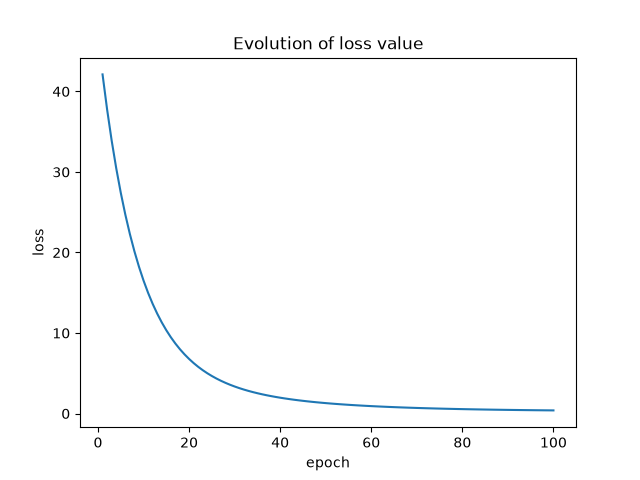
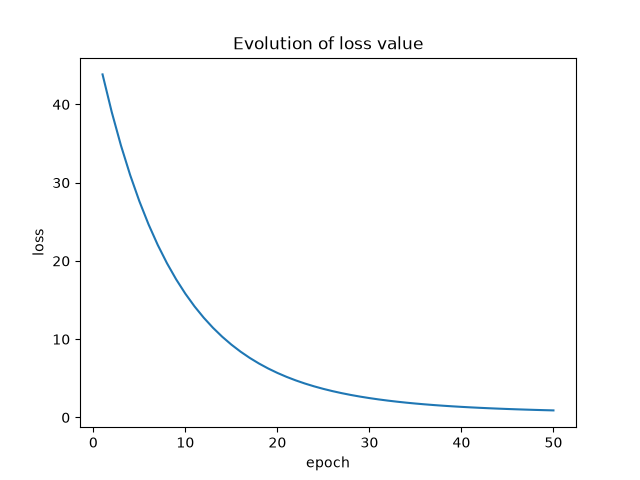
Modification of plot functions and addition of a few optimizations

diff --git a/src/utils/visualization.py b/src/utils/visualization.py
@@ -1,24 +1,55 @@
-import pylab as plt
+from dataclasses import dataclass
+import matplotlib.pyplot as plt
+import torch
+from pathlib import Path
+
+
+FIGURES_DIR = Path("figures")
+
+# helper function that ensures that the folder figures/ exists
+def _figure_path(dirname: str, filename: str) -> Path:
+    path = FIGURES_DIR / dirname / filename
+    path.parent.mkdir(parents=True, exist_ok=True)
+    return path
 
 
 
-def plot_data(X, fX, Y, dirname):
-    plt.scatter(X.numpy(), Y.numpy(), alpha = 0.7)
-    plt.title("Data points")
-    plt.xlabel("x")
-    plt.ylabel("y")
-    plt.savefig(f"figures/{dirname}/data.png")
-    plt.close()
+# creating a dataclass is a convenient solution here
+
+@dataclass
+class LinRegPlot:
+
+    X: torch.Tensor
+    Y: torch.Tensor
+    fX: torch.Tensor
+    dirname: str
+    w: float | None = None     # optional parameters
+    b: float | None = None
 
 
-def plot_line(X, Y, w, b, dirname):
-    plt.scatter(X.numpy(), Y.numpy(), alpha = 0.7)
-    plt.plot(X, w*X + b)
-    plt.title("Data points")
-    plt.xlabel("x")
-    plt.ylabel("y")
-    plt.savefig(f"figures/{dirname}/line.png")
-    plt.close()
+def plot_lin_reg(plot: LinRegPlot, filename: str) -> None:
+    x = plot.X.numpy().flatten()        # flatten means transforming a tensor into a 1-dimensional vector
+    y = plot.Y.numpy().flatten()
+    fx = plot.fX.numpy().flatten()
+
+    fig, ax = plt.subplots(figsize=(8, 5))           
+
+    ax.scatter(x, y, alpha=0.65, s=24, label="Random points", color="blue", zorder=3)     # or tab:blue    # zorder means in the foreground or background
+    ax.plot(x, fx, "--", color="green", linewidth=2, label="y = 3x + 2", zorder=2)
+
+    if plot.w is not None and plot.b is not None:
+        ax.plot(x, plot.w * x + plot.b, "-", color="tab:red", linewidth=2, label=f"Fitted params w = {plot.w:.2f}, b = {plot.b:.2f}", zorder=2)
+        ax.set_title("Linear regression")
+    else:
+        ax.set_title("Training data")
+
+    ax.set_xlabel("x")
+    ax.set_ylabel("y")
+    ax.legend(loc="upper left")
+    ax.grid(True, alpha=0.3)
+
+    fig.savefig(_figure_path(plot.dirname, filename), dpi=120, bbox_inches="tight")
+    plt.close(fig)
 
 
 def plot_loss(losses, dirname):

diff --git a/main.py b/main.py
@@ -4,38 +4,42 @@ from torch import nn
 from src.data import lin_reg_data
 from src.models.linear_regression import LinearRegression
 from src.utils.config import EPOCHS, LR
-from src.utils.visualization import *
+from src.utils.visualization import LinRegPlot, plot_lin_reg, plot_loss
 
 
 def linear_regression():
     dirname = "01_linear_regression"
 
     X, fX, Y = lin_reg_data()
-    plot_data(X, fX, Y, dirname)
+    plot_lin_reg(LinRegPlot(X, Y, fX, dirname), "data.png")
 
-    lr = LinearRegression(X.shape[1], Y.shape[1])
-    loss_fn = nn.MSELoss()
-    optimizer = torch.optim.SGD(lr.parameters(), lr=LR)
+    model = LinearRegression(X.shape[1], Y.shape[1])
+    loss_fn = nn.MSELoss()                  # MSE for continuous variables
+    optimizer = torch.optim.SGD(model.parameters(), lr=LR)           # Another possibility is Adam
     losses = []
 
-    for epoch in range(1, EPOCHS + 1):
+    for epoch in range(1, EPOCHS + 1):      # no need for dataloader and batches, as the dataset is small
         if epoch % 10 == 0:
             print(f"Epoch {epoch}/{EPOCHS}")
         optimizer.zero_grad()
-        Yhat = lr.forward(X)
+        Yhat = model(X)
         loss = loss_fn(Yhat, Y)
         losses.append(loss.item())
         loss.backward()
         optimizer.step()
 
-    w, b = lr.linear.weight.item(), lr.linear.bias.item()
-    plot_line(X, Y, w, b, dirname)
+    w, b = model.linear.weight.item(), model.linear.bias.item()
+    print(f"After training: w={w:.3f}, b={b:.3f} | actual: w=3.0, b=2.0")
+
+    plot_lin_reg(LinRegPlot(X, Y, fX, dirname, w, b), "line.png")
 
     plot_loss(losses, dirname)
 
-    x_test = torch.tensor([[11.0]])
-    print(lr.forward(x_test).item())
+    with torch.no_grad():                # to ensure that pytorch does not compute the graph for inference
+        x_test = torch.tensor([[11.0]])
+        print(model(x_test).item())
 
 
 if __name__ == '__main__':
+    torch.manual_seed(42)
     linear_regression()

diff --git a/src/utils/config.py b/src/utils/config.py
@@ -1,2 +1,2 @@
-EPOCHS = 100
+EPOCHS = 50
 LR = 0.01

diff --git a/README.md b/README.md
@@ -1,3 +1,9 @@
 # pytorch-foundations
 
-In this project, I'm going to code a MNIST using PyTorch
+This project contains simple ML projects. The goal is to learn pytorch.
+It contains:
+- a linear regression
+- a logistic regression
+- a neural network on 2D data
+- a MLP on MNIST
+- a CNN on MNIST